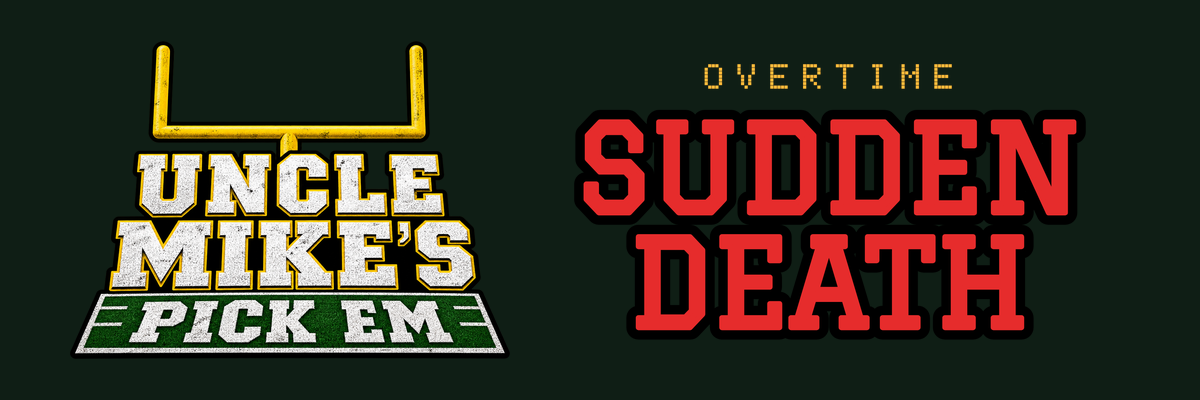
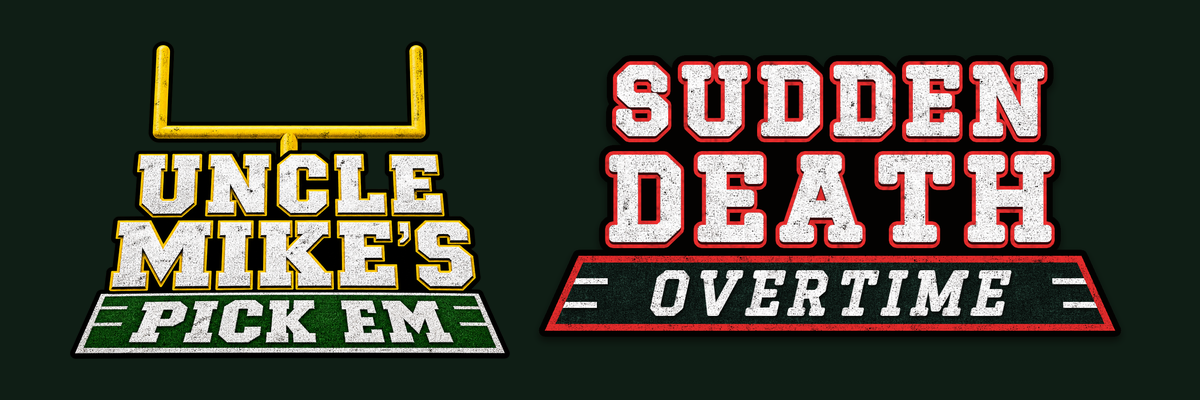
#116 rebuild the Sudden Death mark from the primary's chalk
- derive.py sets SUDDEN DEATH in Graduate, filled with chalk squares cut from the primary's letters
- Blood red outline, black die-cut rim, drop shadow; OVERTIME on a night turf strip with a red chalk border
- Regenerates sudden-death.png, sudden-death.webp and email-header-sudden-death.png
- Drops the flat sudden-death.svg and the unused board variants
- The death pool lockup shows the mark as its h2 image

Claude-Session: https://claude.ai/code/session_01RvX4dRF9bX6Gp8Ktq6rMvh

Changed region(s): [[0.4317, 0.12, 0.9558, 0.84]]

diff --git a/frontend/components/death/sudden-death-lockup.tsx b/frontend/components/death/sudden-death-lockup.tsx
@@ -8,7 +8,7 @@ interface LockupProps {
 
 const BEAM = "pointer-events-none absolute inset-0 opacity-70 blur-[2px]";
 
-/** "Overtime / Sudden death" under two banks of floodlights, with how many helmets are still lit. */
+/** The Sudden Death mark under two banks of floodlights, with how many helmets are still lit. */
 export function SuddenDeathLockup({ alive, total }: LockupProps) {
   return (
     <header className="relative overflow-hidden rounded-xl border border-blood/40 bg-[oklch(0.11_0.012_20)] px-4 pt-7 pb-4 text-center">
@@ -22,13 +22,9 @@ export function SuddenDeathLockup({ alive, total }: LockupProps) {
       />
       <LightBank className="absolute top-1 left-2 size-7 -rotate-12" />
       <LightBank className="absolute top-1 right-2 size-7 rotate-12" />
-      <p className="relative flex items-center justify-center gap-3 font-display text-sm font-extrabold tracking-[0.5em] text-flood uppercase">
-        <span aria-hidden="true" className="h-0.5 w-8 bg-blood" />
-        Overtime
-        <span aria-hidden="true" className="h-0.5 w-8 bg-blood" />
-      </p>
-      <h2 className="relative mt-1 font-stencil text-6xl leading-[0.9] font-black text-[oklch(0.66_0.22_27)] uppercase [text-shadow:0_0_22px_oklch(0.6_0.22_27/0.6)] sm:text-7xl">
-        Sudden death
+      <h2 className="relative mx-auto w-full max-w-[22rem]">
+        {/* eslint-disable-next-line @next/next/no-img-element -- static export, no image optimizer */}
+        <img src="/brand/sudden-death.webp" alt="Sudden death overtime" width={1056} height={527} className="h-auto w-full" />
       </h2>
       <p className="relative mt-3 flex items-center justify-center gap-2 text-sm text-muted-foreground">
         <Helmet className="h-5 w-6" />

diff --git a/scripts/brand/derive.py b/scripts/brand/derive.py
@@ -1,15 +1,18 @@
-"""Every raster brand asset, cut from the pixels of logo-primary.png. Nothing is redrawn.
+"""Every raster brand asset, cut from the pixels of logo-primary.png. The one new mark, Sudden Death,
+is set in the app's Graduate and filled with chalk and turf lifted from the primary's own pixels.
 Run: uv run --with pillow python scripts/brand/derive.py
 """
 
+import random
 from pathlib import Path
 
-from PIL import Image
+from PIL import Image, ImageChops, ImageDraw, ImageFilter, ImageFont
 
-BRAND = Path(__file__).resolve().parents[2] / "frontend/public/brand"
+FRONTEND = Path(__file__).resolve().parents[2] / "frontend"
+BRAND = FRONTEND / "public/brand"
 LOGOS = BRAND / "logos"
 PRIMARY = Image.open(LOGOS / "logo-primary.png").convert("RGBA")
-SUDDEN = Image.open(LOGOS / "sudden-death.png").convert("RGBA")
+GRADUATE = str(FRONTEND / "app/fonts/graduate.woff2")
 
 # Dark fields the logo sits on: the scoreboard board, and Sudden Death's night field (globals.css, base.html).
 BOARD = (22, 18, 13)
@@ -106,6 +109,195 @@ def ico(path, sizes):
     big = icon(256)
     big.save(path, sizes=[(s, s) for s in sizes], bitmap_format="png")
 
+
+# Sudden Death. Built at the primary's own scale (its letters are ~185px tall) so the chalk grain
+# matches without resampling.
+BLOOD = (230, 44, 44)  # --blood, oklch(0.6 0.22 27)
+RIM = (3, 2, 1)
+TRANSPOSES = [None, *Image.Transpose]
+
+
+def tiles(src, mask, size=44, stride=6):
+    """Every size x size square of src that lies wholly inside mask."""
+    out = []
+    for y in range(0, src.height - size, stride):
+        for x in range(0, src.width - size, stride):
+            box = (x, y, x + size, y + size)
+            if mask.crop(box).getextrema()[0] == 255:
+                out.append(src.crop(box))
+    return out
+
+
+def chalk_tiles():
+    """Squares from the faces of UNCLE and MIKE'S. Faces are the bright, unsaturated pixels; closing
+    the mask takes the grit specks back in, eroding it keeps the squares off the yellow edge."""
+    src = PRIMARY.crop((0, SPLIT + 10, PRIMARY.width, 775)).convert("RGB")
+    bright = src.point(lambda v: 255 if v > 150 else 0).convert("L", (1 / 3, 1 / 3, 1 / 3, 0))
+    face = bright.point(lambda v: 255 if v == 255 else 0)
+    sat = ImageChops.subtract(src.convert("HSV").getchannel("S"), Image.new("L", src.size, 50))
+    face = ImageChops.subtract(face, sat.point(lambda v: 255 if v else 0))
+    face = face.filter(ImageFilter.MaxFilter(5)).filter(ImageFilter.MinFilter(5)).filter(ImageFilter.MinFilter(9))
+    return tiles(src, face)
+
+
+def turf_tiles():
+    src = PRIMARY.crop((0, 795, PRIMARY.width, 960)).convert("RGB")
+    r, g, b = src.split()
+    grass = ImageChops.subtract(g, ImageChops.lighter(r, b)).point(lambda v: 255 if v > 12 else 0)
+    return tiles(src, grass.filter(ImageFilter.MinFilter(5)), size=32, stride=4)
+
+
+def synth(size, pool, seed):
+    """Cover size with squares from pool, flipped and turned, dropped at random over a full first pass.
+    Hard edges at random spots vanish in the grit; a regular grid or cross-fades (which average the
+    specks away) showed as plaid."""
+    rnd = random.Random(seed)
+    p = pool[0].width
+    out = Image.new("RGB", size)
+
+    def drop(x, y):
+        t = rnd.choice(pool)
+        turn = rnd.choice(TRANSPOSES)
+        out.paste(t.transpose(turn) if turn else t, (x, y))
+
+    for y in range(0, size[1], p):
+        for x in range(0, size[0], p):
+            drop(x, y)
+    for _ in range(3 * size[0] * size[1] // (p * p)):
+        drop(rnd.randrange(-p, size[0]), rnd.randrange(-p, size[1]))
+    return out
+
+
+def dilate(mask, r):
+    """Grow mask by a disc of radius r, keeping its anti-aliased edge."""
+    out = mask.copy()
+    for dy in range(-r, r + 1):
+        for dx in range(-r, r + 1):
+            if dx * dx + dy * dy <= r * r:
+                out = ImageChops.lighter(out, ImageChops.offset(mask, dx, dy))
+    return out
+
+
+def fill_holes(mask):
+    """The primary's black rim runs solid through counters and between letters."""
+    solid = mask.point(lambda v: 255 if v > 127 else 0)
+    ImageDraw.floodfill(solid, (0, 0), 128)
+    return ImageChops.lighter(mask, solid.point(lambda v: 255 if v != 128 else 0))
+
+
+def word(text, cap, stroke, track, stretch=1.0):
+    """Graduate is a light single weight; a stroke brings it up to the primary's heavy block letters,
+    and a horizontal stretch to its wide set."""
+    font = ImageFont.truetype(GRADUATE, round(cap / 0.75))
+    glyphs = []
+    for ch in text:
+        g = Image.new("L", (round(cap * 2), round(cap * 1.6)))
+        ImageDraw.Draw(g).text((stroke, cap * 1.2), ch, font=font, fill=255, anchor="ls", stroke_width=stroke, stroke_fill=255)
+        left, _, right, _ = g.getbbox()
+        g = g.crop((left, 0, right, g.height))
+        glyphs.append(g.resize((round(g.width * stretch), g.height), Image.LANCZOS))
+    out = Image.new("L", (sum(g.width for g in glyphs) + track * (len(glyphs) - 1), glyphs[0].height))
+    x = 0
+    for g in glyphs:
+        out.paste(g, (x, 0))
+        x += g.width + track
+    return out.crop(out.getbbox())
+
+
+def sheared(mask, slant):
+    w, h = mask.size
+    pad = round(abs(slant) * h)
+    return mask.transform((w + pad, h), Image.AFFINE, (1, slant, -pad if slant > 0 else 0, 0, 1, 0), Image.BICUBIC)
+
+
+def tinted(texture, color):
+    """Chalk with its grit, in color: the texture's light level times the color."""
+    lum = texture.convert("L")
+    return Image.merge("RGB", [lum.point(lambda v, c=c: round(v * c / 255)) for c in color])
+
+
+def sudden_death():
+    chalk = chalk_tiles()
+    turf = turf_tiles()
+
+    sudden = word("SUDDEN", 160, 9, 34, 1.12)
+    death = word("DEATH", 196, 11, 40, 1.12)
+    over = sheared(word("OVERTIME", 104, 5, 26, 1.05), 0.22)
+
+    pad, gap, strip_h, slope = 70, 46, 186, 0.45
+    strip_top = max(sudden.width, death.width) + 150
+    strip_bottom = strip_top + round(2 * slope * strip_h)
+    w = strip_bottom + 2 * pad
+    y_death = pad + sudden.height + gap
+    y_strip = y_death + death.height + 34
+    h = y_strip + strip_h + pad
+    cx = w // 2
+
+    def place(mask, x, y):
+        out = Image.new("L", (w, h))
+        out.paste(mask, (x, y))
+        return out
+
+    face = ImageChops.lighter(place(sudden, cx - sudden.width // 2, pad), place(death, cx - death.width // 2, y_death))
+    # The primary's faces sit on a shallow extrusion that drops straight down, outlined all round.
+    body = face
+    for k in range(1, 7):
+        body = ImageChops.lighter(body, ImageChops.offset(face, 0, k))
+    outline = dilate(ImageChops.offset(body, -1, 0), 9)
+
+    def half_width(y, inset=0):
+        """Half the strip's width at row y. Its sides lean out like the primary's turf strip."""
+        return strip_top / 2 + slope * (y - y_strip) - inset * (1 + slope * slope) ** 0.5
+
+    def strip_poly(inset):
+        t, b = y_strip + inset, y_strip + strip_h - inset
+        top, bottom = half_width(t, inset), half_width(b, inset)
+        return [(cx - top, t), (cx + top, t), (cx + bottom, b), (cx - bottom, b)]
+
+    strip = Image.new("L", (w, h))
+    ImageDraw.Draw(strip).polygon(strip_poly(0), fill=255)
+    field = Image.new("L", (w, h))
+    ImageDraw.Draw(field).polygon(strip_poly(17), fill=255)
+
+    rim = fill_holes(dilate(ImageChops.lighter(outline, strip), 15))
+    shadow = ImageChops.offset(rim, 0, 10).filter(ImageFilter.GaussianBlur(9)).point(lambda v: v * 0.55)
+
+    out = Image.new("RGBA", (w, h))
+    out.paste(RIM + (255,), (0, 0), shadow)
+    out.paste(RIM + (255,), (0, 0), rim)
+
+    chalk_tex = synth((w, h), chalk, 7)
+    out.paste(tinted(synth((w, h), chalk, 11), BLOOD), (0, 0), strip)
+
+    # Night turf: the primary's grass, pulled down to a dark, cold green under the floodlights.
+    night = synth((w, h), turf, 3).convert("L").point(lambda v: min(255, round(v * 1.15)))
+    night = Image.merge("RGB", [night.point(lambda v, k=k: round(v * k)) for k in (0.3, 0.55, 0.46)])
+    out.paste(night, (0, 0), field)
+
+    dashes = Image.new("L", (w, h))
+    d = ImageDraw.Draw(dashes)
+    for frac in (0.34, 0.66):
+        y = y_strip + strip_h * frac
+        edge = half_width(y)
+        d.rectangle((cx - edge, y - 7, cx - edge + 100, y + 7), fill=255)
+        d.rectangle((cx + edge - 100, y - 7, cx + edge, y + 7), fill=255)
+    over_mask = place(over, cx - over.width // 2, y_strip + (strip_h - over.height) // 2)
+    ink = ImageChops.lighter(ImageChops.multiply(dashes, field), over_mask)
+    ink_shadow = ImageChops.offset(ink, 4, 6).filter(ImageFilter.GaussianBlur(3)).point(lambda v: v * 0.6)
+    out.paste(RIM + (255,), (0, 0), ImageChops.multiply(ink_shadow, field))
+    out.paste(chalk_tex, (0, 0), ink)
+
+    red = tinted(chalk_tex.filter(ImageFilter.GaussianBlur(2)), BLOOD).point(lambda v: min(255, round(v * 1.08)))
+    out.paste(red, (0, 0), outline)
+    out.paste((52, 6, 8, 255), (0, 0), body)
+    out.paste(chalk_tex, (0, 0), face)
+    return out.crop(out.getbbox())
+
+
+SUDDEN = sudden_death()
+SUDDEN.save(LOGOS / "sudden-death.png", optimize=True)
+# The death pool's header shows it up to 352px wide; 3x for phones.
+fit(SUDDEN, 1056, 10_000).save(BRAND / "sudden-death.webp", quality=90, method=6)
 
 PRIMARY.resize((1280, round(PRIMARY.height * 1280 / PRIMARY.width)), Image.LANCZOS).save(BRAND / "logo.webp", quality=92, method=6)
 
